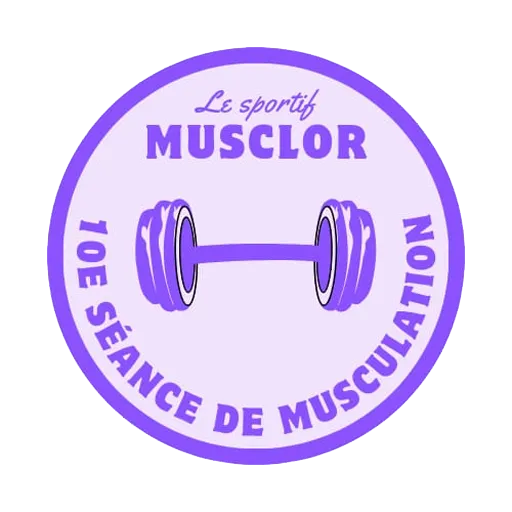
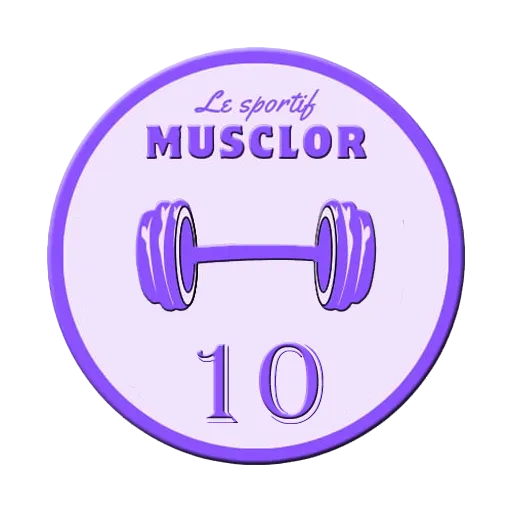
1.2.15 test trophy placeholder

diff --git a/index.html b/index.html
@@ -245,7 +245,7 @@
 
     <!-- ----------------------------------      DIV INFO        ------------------------------------------------>
     <div id="divInfo" class="new-interface">
-            <p class="release-licence"><b>Release :</b> 1.2.14</p>
+            <p class="release-licence"><b>Release :</b> 1.2.15</p>
             <p class="release-licence"><b>Licence : </b></p>
             <p class="release-licence">
                 Emmanuel TARACONAT
@@ -261,13 +261,29 @@
 
     <!-- ----------------------------------  FIN    DIV INFO     ------------------------------------------------>
 
-    <!-- ----------------------------------      DIV INFO        ------------------------------------------------>
+    <!-- ----------------------------------      DIV RECOMPENSE/TROPHY        ------------------------------------------------>
     <div id="divTrophy" class="new-interface">
+
+        <div class="trophy">
+            <img src="./Badges/Badge-20-activite.webp" class="trophyList" srcset="" onclick="onDisplayTrophyFullScreen('ACTIVITES-20')">
+            <img src="./Badges/Badge-absent.webp" class="trophyList" srcset=""onclick="onDisplayTrophyFullScreen('ABSENT')">
+            <img src="./Badges/Badge-Muscu-10-seance.webp" class="trophyList" srcset="" onclick="onDisplayTrophyFullScreen('MUSCU-10')">
+            <img src="./Badges/Badge-running-10km.webp" class="trophyList" srcset="" onclick="onDisplayTrophyFullScreen('CAP-10')">
+            <img src="./Badges/Badge-running-semi.webp" class="trophyList" srcset="" onclick="onDisplayTrophyFullScreen('CAP-SEMI')">
+            <img src="./Badges/Badge-marathon.webp" class="trophyList" srcset="" onclick="onDisplayTrophyFullScreen('CAP-MARATHON')">
+        </div>
     </div>
 
     <div id="divBtnTrophy" class="button-editor">
         <button class="btn-menu" onclick="onClickReturnFromTrophy()"><img src="./Icons/Icon-Return-cancel.webp" alt="Icone"></button>  
     </div>
+
+
+    <div onclick="onHiddenFullscreenTrophy()" id="divFullScreenTrophy" class="fullScreenTrophy">
+        <img id="imgTrophyFullScreen" src="" alt="" class="trophyFullScreen">
+        <p id="pTrophyFullScreenText" class="trophy">A accomplit 20 activités.</p>
+    </div>
+
 
     <!-- ----------------------------------  FIN    DIV INFO     ------------------------------------------------>
 
@@ -321,7 +337,7 @@
     <div id="divMainBtnMenu" class="main-menu">
         <button class="btn-menu" onclick="onChangeMenu('Favoris')"><img src="./Icons/Icon-Favoris-Sel.webp" alt="Icone"></button>
         <button class="btn-menu" onclick="onChangeMenu('Stat')"><img src="./Icons/Icon-Stat.webp" alt="Icone"></button>
-        <!-- <button class="btn-menu" onclick="onChangeMenu('Trophy')"><img src="./Icons/Icon-Trophy.webp" alt="Icone"></button> -->
+        <button class="btn-menu" onclick="onChangeMenu('Trophy')"><img src="./Icons/Icon-Trophy.webp" alt="Icone"></button>
         <button class="btn-menu" onclick="onClickMainMenuSup()"><img src="./Icons/Icon-Autres.webp" alt="Icone"></button>
 
     </div>

diff --git a/scripts/trophy.js b/scripts/trophy.js
@@ -1,8 +1,73 @@
+// Variables
 
+// Tableau des trophy
+let allTrophyArray = [
+    {trophyName:"ACTIVITES-20", imgRef : "./Badges/Badge-20-activite.webp", text : "A accomplit 20 activités."},
+    {trophyName:"ABSENT", imgRef : "./Badges/Badge-absent.webp", text : "N'a pratiqué aucune activité depuis 1 mois !"},
+    {trophyName:"MUSCU-10", imgRef : "./Badges/Badge-Muscu-10-seance.webp", text : "A pratiqué 10 séances de musculation."},
+    {trophyName:"CAP-10", imgRef : "./Badges/Badge-running-10km.webp", text : "A parcouru 10km en une séance de course à pied."},
+    {trophyName:"CAP-SEMI", imgRef : "./Badges/Badge-running-semi.webp", text : "A réalisé un semi-marathon"},
+    {trophyName:"CAP-MARATHON", imgRef : "./Badges/Badge-marathon.webp", text : "Tout est dit !"}
+];
+
+
+
+
+
+
+
+// Reference 
+let imgTrophyFullScreenRef,
+pTrophyFullScreenTextRef;
 
 function onOpenMenuTrophy(){
-    console.log("Ouverture menu Trophy");
-   }
+    console.log("[TROPHY] Ouverture menu Trophy");
+
+
+    // Reference les éléments
+    imgTrophyFullScreenRef = document.getElementById("imgTrophyFullScreen");
+    pTrophyFullScreenTextRef = document.getElementById("pTrophyFullScreenText");
+
+}
+
+
+
+// Fonction de recupération d'un trophy dans le tableau
+
+function onSearchTrophyInArray(trophyTarget) {
+    return allTrophyArray.find(trophy => trophy.trophyName === trophyTarget);
+}
+
+
+
+
+
+// Affiche en grand la récompense
+function onDisplayTrophyFullScreen(trophyRef) {
+    console.log("[TROPHY]  demande de visualisation de récompense : " + trophyRef);
+
+    let currentTrophyData = onSearchTrophyInArray(trophyRef);
+
+
+    console.log(currentTrophyData);
+
+    // set les éléments et affiche
+    imgTrophyFullScreenRef.src = currentTrophyData.imgRef;
+    pTrophyFullScreenTextRef.innerHTML = currentTrophyData.text;
+
+    document.getElementById("divFullScreenTrophy").classList.add("show");
+}
+
+
+// Masque la récompense qui était en grand plan
+function onHiddenFullscreenTrophy() {
+    console.log("cache la div de visualisation de récompense");
+    document.getElementById("divFullScreenTrophy").classList.remove("show");
+}
+
+
+
+
    
    
    
@@ -20,7 +85,11 @@ function onOpenMenuTrophy(){
    
    // Retour depuis Trophy
    function onClickReturnFromTrophy() {
-   
+
+    // Vide les réferences
+    imgTrophyFullScreenRef = "";
+    pTrophyFullScreenTextRef ="";
+
    
        // ferme le menu
        onLeaveMenu("Trophy");

diff --git a/styles/global.css b/styles/global.css
@@ -8,6 +8,7 @@
     --colorMainTheme4 : #5BC0F8;
     --colorLightGray : rgba(245, 245, 245);
     --boxShadow : rgba(0, 0, 0, 0.15) 1px 1px 2px;
+    --boxShadowPlus : rgba(0, 0, 0, 0.15) 2px 2px 4px;
 }
 
 
@@ -730,6 +731,87 @@ p.stat{
     font-weight: bold;
     color: var(--colorMainTheme1);
     justify-content: baseline;
+}
+
+
+
+
+
+
+
+/* ---------------------------------------- RECOMPENSES ------------------------------ */
+
+
+
+
+
+
+
+
+
+
+
+
+
+div.trophy{
+    display: flex;
+    flex-direction:row; 
+    flex-wrap: wrap; /* Permet le retour à la ligne si nécessaire */
+    align-items: flex-start;  /* Aligne les items en haut */
+    justify-content: flex-start; /* Aligne les images sur la gauche */
+}
+
+
+
+img.trophyList {
+    width: 80px;
+    border: solid 1px rgb(246, 246, 246);
+    border-radius: 10px;
+    margin: 10px;
+    background-color: rgb(246, 246, 246);
+    box-shadow: var(--boxShadow);
+}
+
+
+
+
+/* En plein écran */
+div.fullScreenTrophy {
+    background-color: rgba(255, 255, 255, 0.9);
+    z-index: 2;
+    display: none;
+    width: 100%;
+    height: 100vh;
+    position: absolute;
+    flex-direction: column;
+    justify-content: center;
+    align-items: center;
+}
+
+div.fullScreenTrophy.show {
+    display: flex; /* Change display pour l'afficher */
+}
+
+
+img.trophyFullScreen{
+    width: 300px;
+    border: solid 1px rgb(246, 246, 246);
+    border-radius: 20px;
+    margin: 10px;
+    background-color: rgb(246, 246, 246);
+    box-shadow: var(--boxShadowPlus);
+}
+
+
+
+
+p.trophy{
+    border: none;
+    padding: 5px 20px 5px 20px;
+    border-radius: 5px;
+    background-color: rgb(246, 246, 246);
+    box-shadow: var(--boxShadowPlus);
+    font-weight: bold;
 }
 
 

diff --git a/service-worker.js b/service-worker.js
@@ -5,7 +5,7 @@ const basePath = serviceWorkerUrl.replace(/service-worker\.js$/, '');
 console.log(`[SERVICE WORKER] : BasePath = ${basePath}`);
 
 // Nom de la version du cache
-const CACHE_VERSION = "V15";
+const CACHE_VERSION = "V16";
 const STATIC_CACHE = `static-${CACHE_VERSION}`;
 
 // Fichiers à mettre en cache
@@ -75,11 +75,12 @@ const IMAGES = [
 ];
 
 const BADGES = [
+  `${basePath}Badges/Badge-running-semi.webp`,
   `${basePath}Badges/Badge-20-activite.webp`,
   `${basePath}Badges/Badge-absent.webp`,
+  `${basePath}Badges/Badge-marathon.webp`,
   `${basePath}Badges/Badge-Muscu-10-seance.webp`,
-  `${basePath}Badges/Badge-running-10km.webp`,
-  `${basePath}Badges/Badge-running-20km.webp`
+  `${basePath}Badges/Badge-running-10km.webp`
 ];
 
 
